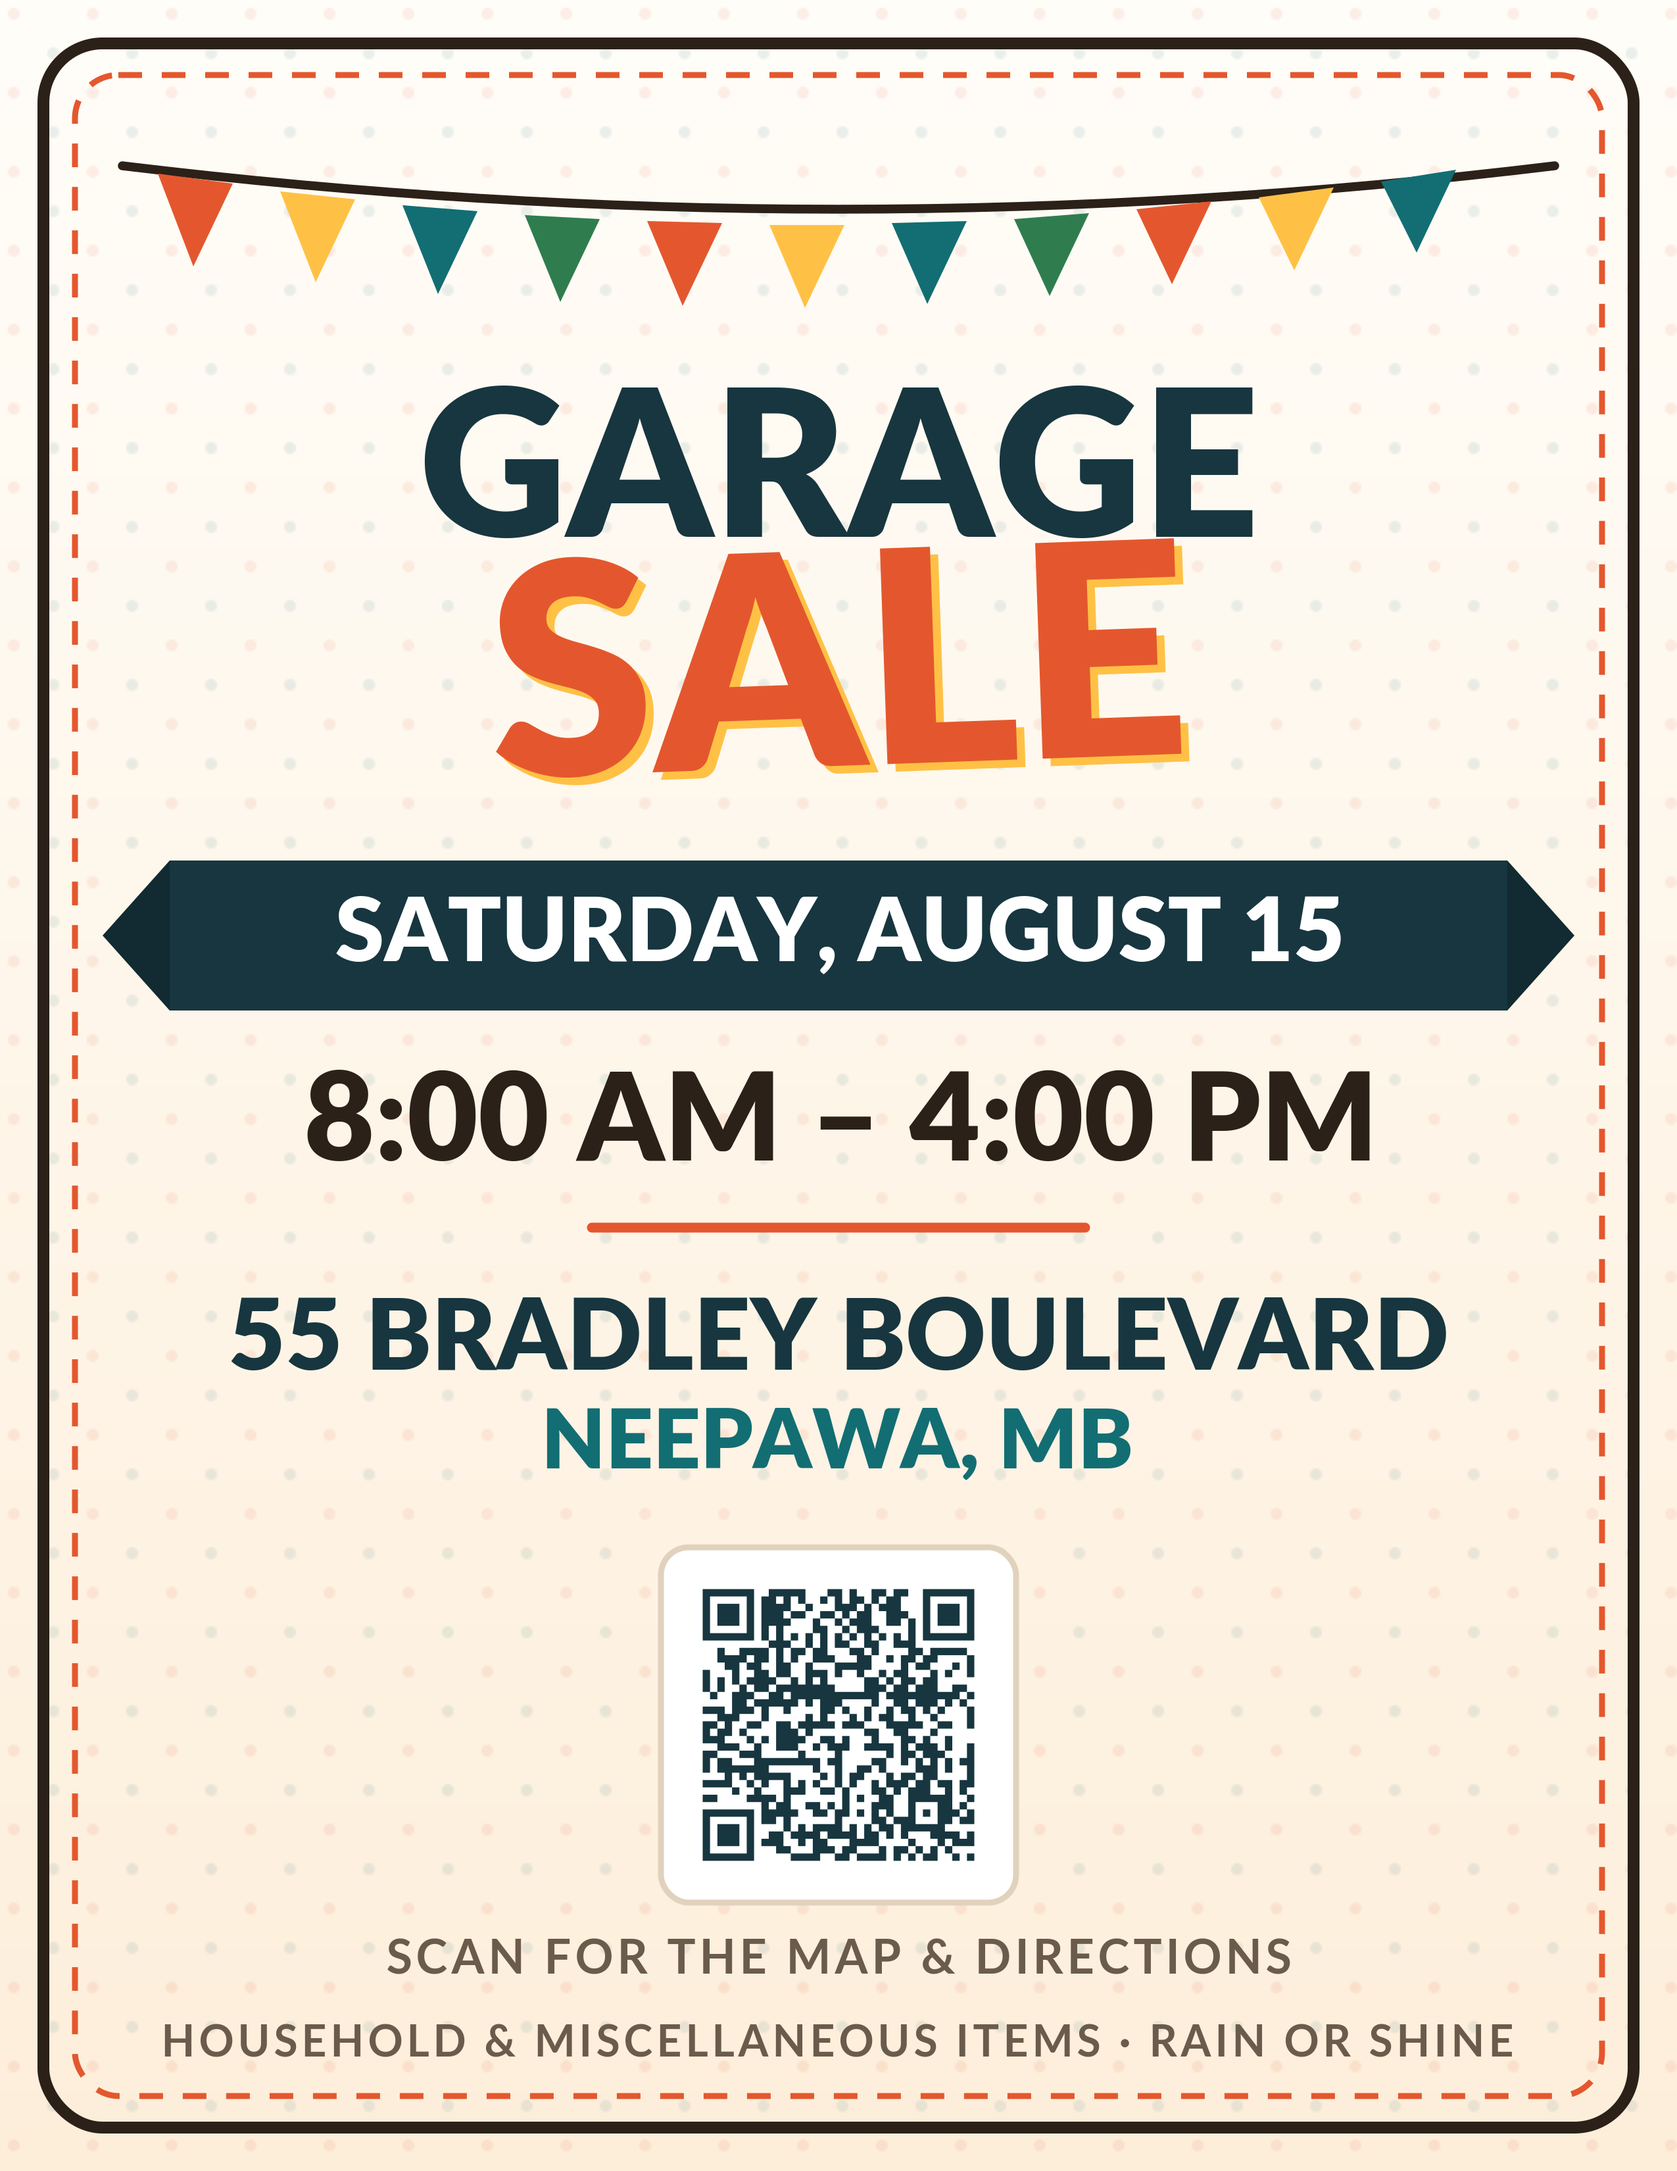
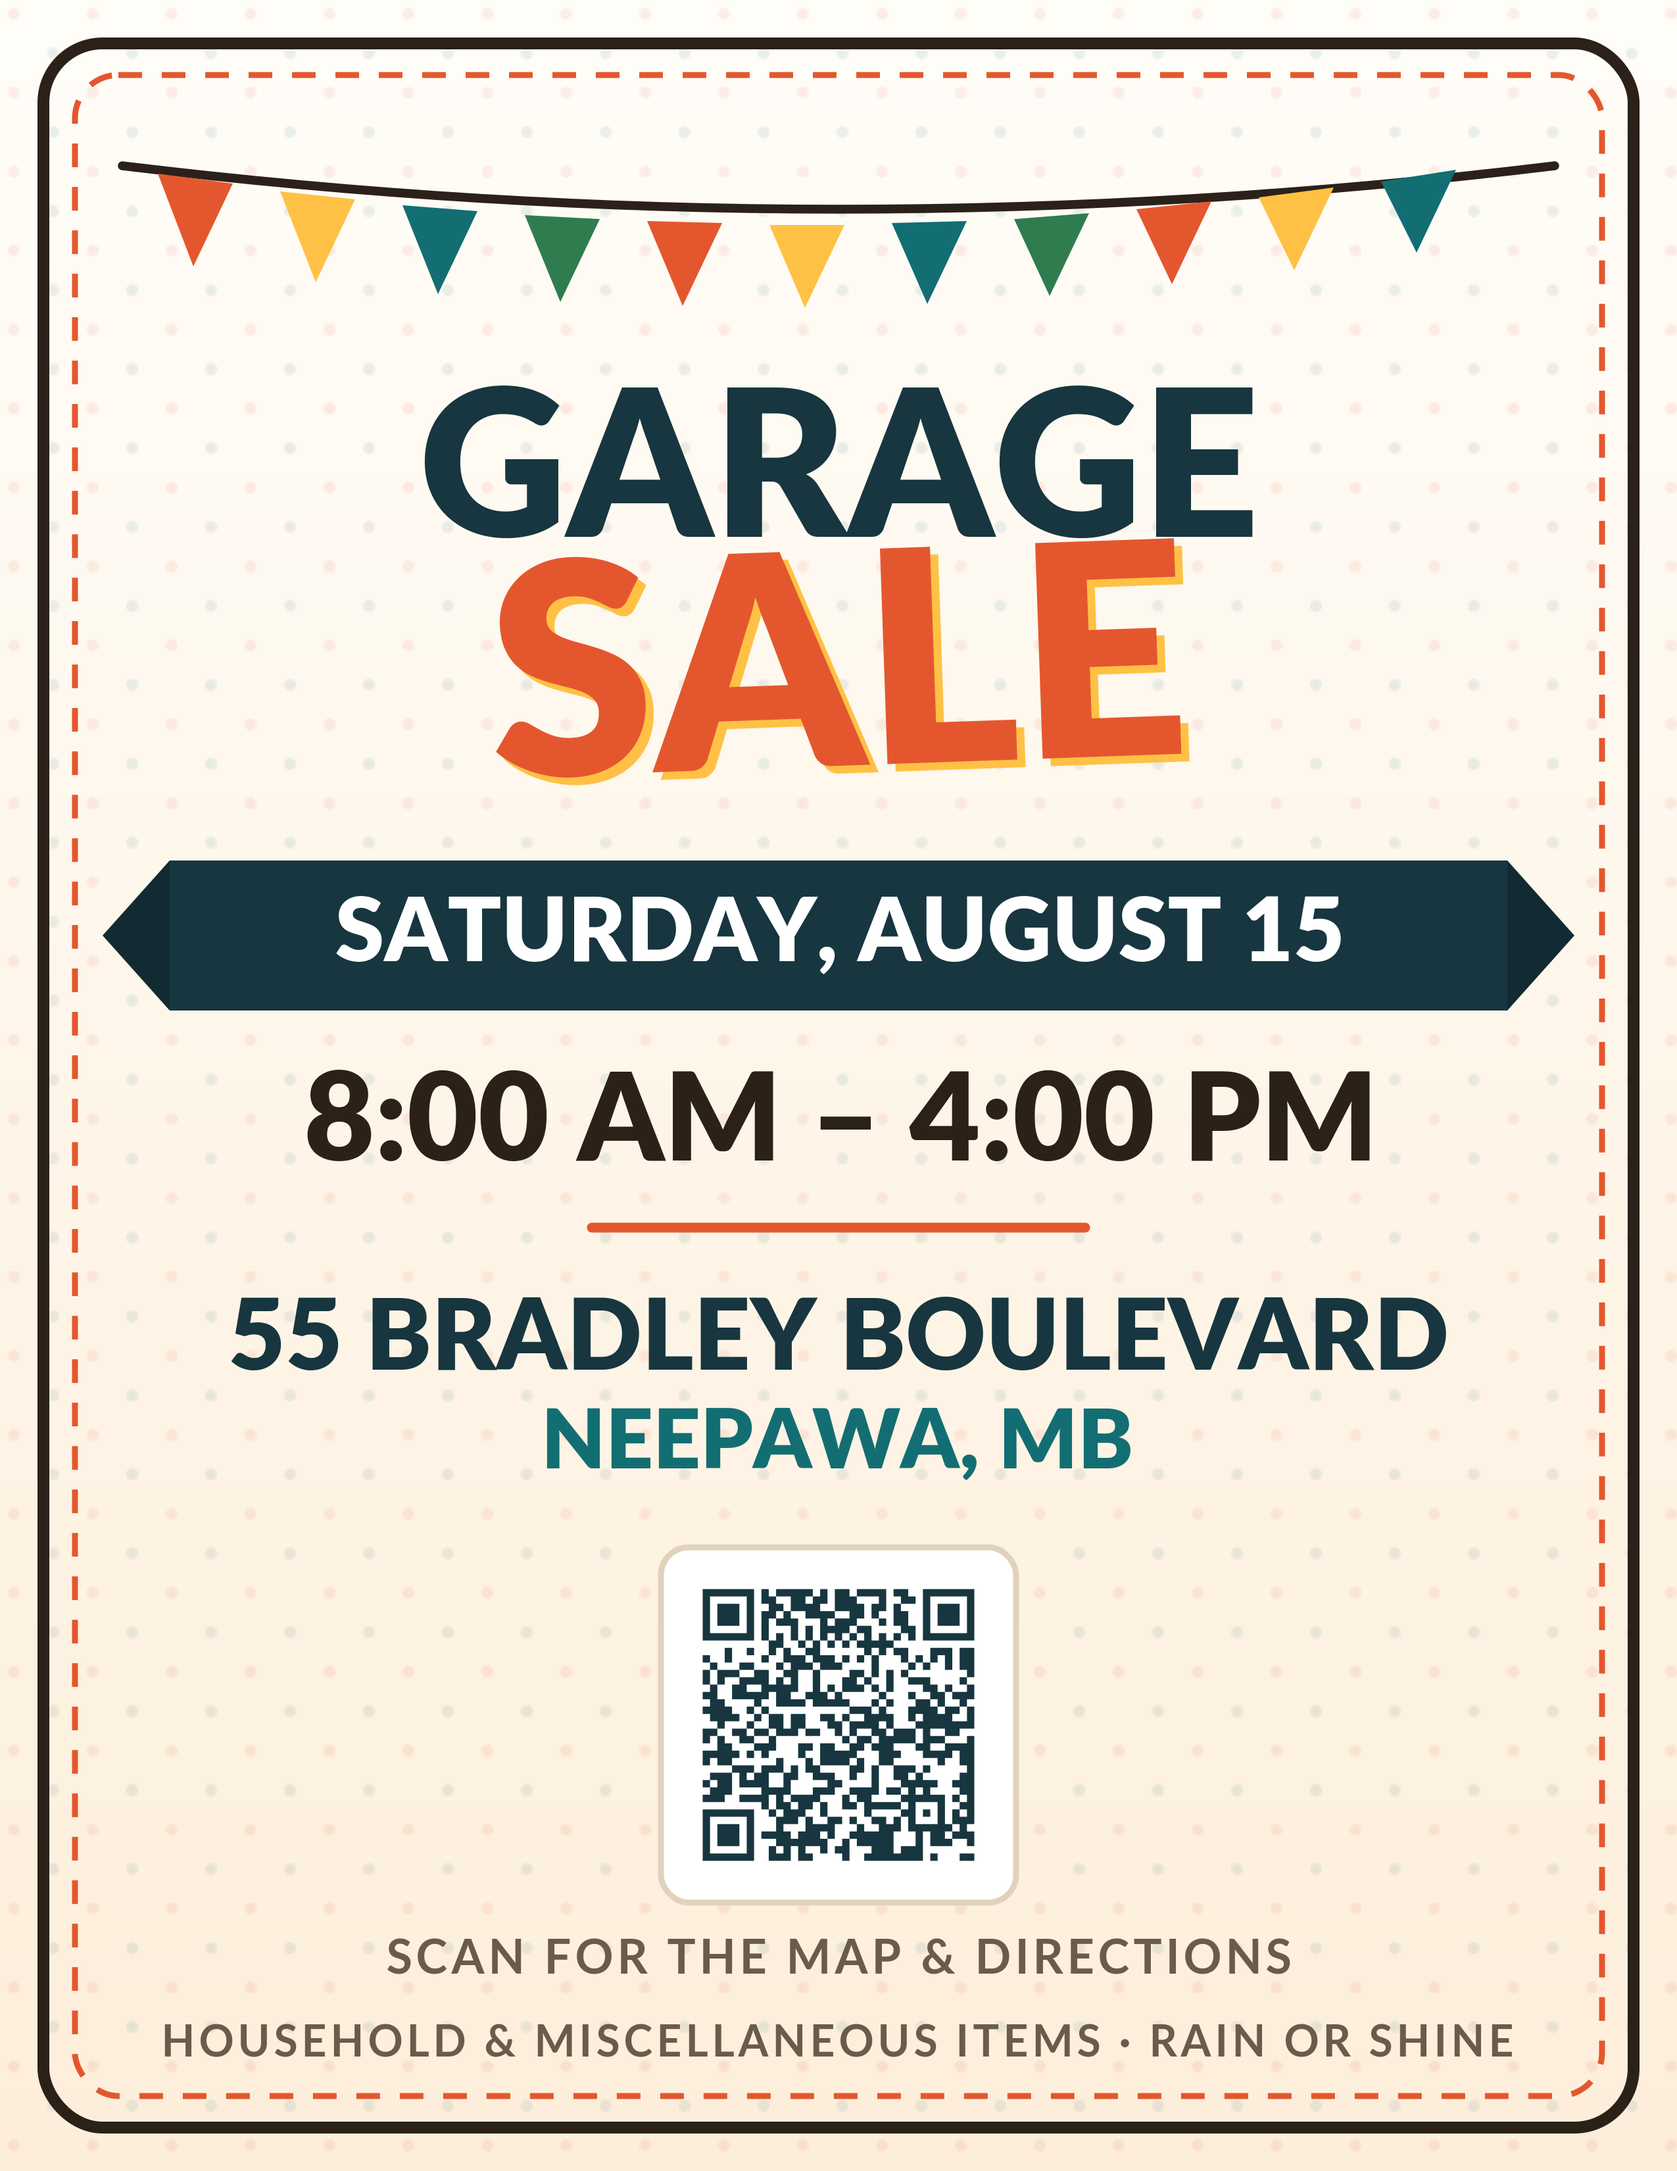
Point the site at its live address
Sets the canonical link, Open Graph and Twitter preview tags, and the
share/copy-link buttons to https://aj01-a.github.io/garage-sale/, and
regenerates the QR code so it opens the real site.

Changed region(s): [[0.4027, 0.7179, 0.5886, 0.8739]]

diff --git a/index.html b/index.html
@@ -15,17 +15,18 @@
 
 <!-- ==========================================================
      SOCIAL SHARING PREVIEW (Facebook, Messenger, iMessage...)
-     >>> Replace YOUR-USERNAME below with your GitHub username
-         once you know your real website address.
-         (Or run:  python3 tools/set-site-url.py <your-url>)
+     These already point at the live site. If the website address
+     ever changes, don't edit them by hand — run this instead, and
+     it updates every file plus the QR code:
+         python3 tools/set-site-url.py <your-new-url>
      ========================================================== -->
-<link rel="canonical" href="https://YOUR-USERNAME.github.io/garage-sale/">
+<link rel="canonical" href="https://aj01-a.github.io/garage-sale/">
 <meta property="og:type" content="website">
 <meta property="og:site_name" content="Garage Sale — Neepawa, MB">
 <meta property="og:title" content="Garage Sale — Saturday, August 15, 2026">
 <meta property="og:description" content="55 Bradley Boulevard, Neepawa, MB · 8:00 AM – 4:00 PM. Household and miscellaneous items. Come take a look and see what you can find!">
-<meta property="og:url" content="https://YOUR-USERNAME.github.io/garage-sale/">
-<meta property="og:image" content="https://YOUR-USERNAME.github.io/garage-sale/assets/og-image.png">
+<meta property="og:url" content="https://aj01-a.github.io/garage-sale/">
+<meta property="og:image" content="https://aj01-a.github.io/garage-sale/assets/og-image.png">
 <meta property="og:image:width" content="1200">
 <meta property="og:image:height" content="630">
 <meta property="og:image:alt" content="Garage Sale poster: Saturday August 15, 8 AM to 4 PM, 55 Bradley Boulevard, Neepawa MB">
@@ -33,7 +34,7 @@
 <meta name="twitter:card" content="summary_large_image">
 <meta name="twitter:title" content="Garage Sale — Saturday, August 15, 2026">
 <meta name="twitter:description" content="55 Bradley Boulevard, Neepawa, MB · 8:00 AM – 4:00 PM. Come take a look and see what you can find!">
-<meta name="twitter:image" content="https://YOUR-USERNAME.github.io/garage-sale/assets/og-image.png">
+<meta name="twitter:image" content="https://aj01-a.github.io/garage-sale/assets/og-image.png">
 
 <!-- Icons -->
 <link rel="icon" href="assets/favicon.svg" type="image/svg+xml">

diff --git a/script.js b/script.js
@@ -22,8 +22,8 @@ const SITE_CONFIG = {
 
   // --- THIS WEBSITE'S ADDRESS --------------------------------------------
   // Leave as-is until GitHub Pages gives you a real URL, then paste it here
-  // (or run:  python3 tools/set-site-url.py https://YOUR-USERNAME.github.io/garage-sale/ )
-  siteUrl: 'https://YOUR-USERNAME.github.io/garage-sale/',
+  // (or run:  python3 tools/set-site-url.py https://aj01-a.github.io/garage-sale/ )
+  siteUrl: 'https://aj01-a.github.io/garage-sale/',
 
   // --- MESSAGES -----------------------------------------------------------
   labelBefore: 'Sale starts in',
